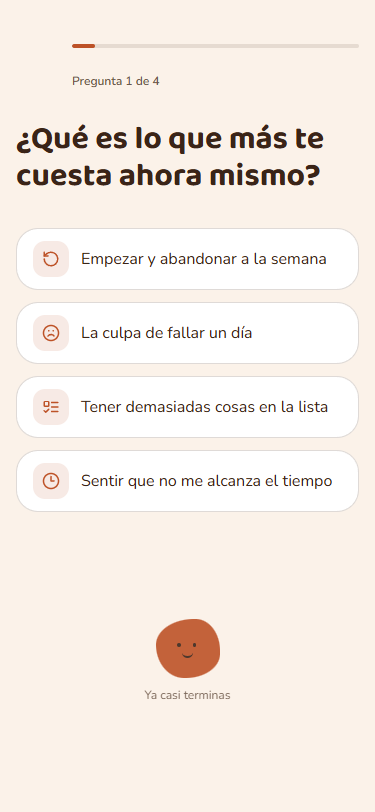
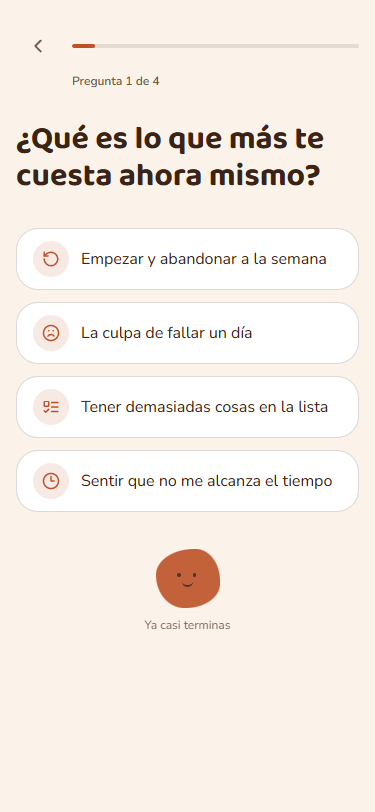
Corrige bug real del atajo de teclado y ultimos defectos visuales
Elimina el atajo de teclado 1-4 del onboarding: interceptaba los digitos
escritos en el campo libre "Otra cosa" y seleccionaba una opcion por error.
Fija la altura del bloque mascota+texto para que no varie entre preguntas,
usa el token --radius-button en el icono del chip, agrega salida visible
desde el primer paso, y feedback tactil en el boton de cierre del paywall.
Cuarta pasada del revisor-visual en curso.

Changed region(s): [[0.4107, 0.6773, 0.616, 0.8621], [0.3813, 0.8313, 0.4107, 0.8621], [0.088, 0.0308, 0.1173, 0.0616]]

diff --git a/app/onboarding/page.tsx b/app/onboarding/page.tsx
@@ -92,6 +92,10 @@ export default function Onboarding() {
   }
 
   function atras() {
+    if (paso === 0) {
+      router.push('/');
+      return;
+    }
     setPaso((p) => Math.max(0, p - 1));
   }
 
@@ -109,7 +113,7 @@ export default function Onboarding() {
     <FunnelShell>
       <BarraProgreso
         pct={pct}
-        onAtras={paso > 0 && paso < 6 ? atras : undefined}
+        onAtras={paso < 6 ? atras : undefined}
         pasoActual={paso < PREGUNTAS.length ? paso + 1 : undefined}
         totalPasos={paso < PREGUNTAS.length ? PREGUNTAS.length : undefined}
       />
@@ -178,13 +182,7 @@ function PantallaPregunta({
   }
 
   return (
-    <div
-      className="flex flex-1 flex-col pt-6"
-      onKeyDown={(e) => {
-        const n = Number(e.key);
-        if (n >= 1 && n <= pregunta.opciones.length) elegirOpcion(pregunta.opciones[n - 1]);
-      }}
-    >
+    <div className="flex flex-1 flex-col pt-6">
       <h1 className="text-balance text-[32px] font-bold leading-[1.15] [font-family:var(--font-display)]">
         {pregunta.pregunta}
       </h1>
@@ -214,7 +212,7 @@ function PantallaPregunta({
           </BotonPrimario>
         </div>
       )}
-      <div className="mt-8 flex flex-1 flex-col items-center justify-center gap-2 opacity-90">
+      <div className="flex h-40 shrink-0 flex-col items-center justify-center gap-2 opacity-90">
         <Mascota size={64} />
         <p className="text-[12px] font-medium text-[var(--text-secondary)]">Ya casi terminas</p>
       </div>

diff --git a/app/paywall/page.tsx b/app/paywall/page.tsx
@@ -62,14 +62,15 @@ export default function Paywall() {
   return (
     <FunnelShell>
       <div className="flex items-center justify-between py-2">
-        <button
+        <motion.button
           type="button"
           onClick={ahoraNo}
           aria-label="Cerrar y seguir con el plan gratis"
+          whileTap={reduce ? undefined : { scale: 0.9 }}
           className="flex size-11 items-center justify-center rounded-full text-[var(--text-secondary)]"
         >
           <X size={20} />
-        </button>
+        </motion.button>
       </div>
 
       <motion.div

diff --git a/components/funnel/ui.tsx b/components/funnel/ui.tsx
@@ -129,7 +129,7 @@ export function Chip({
     >
       {Icon && (
         <span
-          className="flex size-9 shrink-0 items-center justify-center rounded-[12px]"
+          className="flex size-9 shrink-0 items-center justify-center rounded-[var(--radius-button)]"
           style={{ background: 'color-mix(in oklab, var(--accent) 12%, transparent)' }}
         >
           <Icon size={18} color="var(--accent)" />

diff --git a/docs/revisiones/onboarding-veredicto.md b/docs/revisiones/onboarding-veredicto.md
@@ -7,10 +7,8 @@ Copy (si vende): N-A
 Fidelidad (si hubo referencia): N-A
 Veredicto: NO LISTA
 Top defectos:
-1. [pantalla pregunta, mitad inferior] Persiste un vacío de ~180-200px entre el último chip y la mascota (chips terminan ~y=517, mascota empieza ~y=707 en 812px de alto) — la mascota ayuda pero no cierra el hueco, un usuario lo nota sin buscarlo → reducir el espacio (menos mt-auto/pt-8) o agrandar la mascota/agregar un micro-texto de apoyo bajo ella.
-2. [components/funnel/ui.tsx, lista de Chips en PantallaPregunta] Los 4 chips aparecen todos a la vez sin stagger de entrada — la baseline de animación #1 (entrada escalonada 50-80ms) sigue sin cumplirse en la primera pantalla del funnel → envolver el contenedor de chips en un variants de Motion con staggerChildren ~60-80ms.
-3. [app/onboarding/page.tsx, array PREGUNTAS] Inconsistencia real de componente: las preguntas 1 y 4 dan `icon` a sus opciones (chip con contenedor de ícono) y las preguntas 2 y 3 no — el mismo Chip luce distinto entre pasos consecutivos, rompe consistencia (h4) → dar ícono a todas las opciones o quitarlo de todas.
-4. [components/funnel/ui.tsx, Chip] Sin atajo de teclado (selección por número 1-4) para el usuario que prefiere teclado — sigue sin implementarse desde la pasada anterior → agregar onKeyDown en el contenedor de PantallaPregunta que mapee dígitos a `onElegir`.
-5. [BarraProgreso, header] El botón Atrás (ChevronLeft) ya funciona y tiene aria-label, pero no hay forma visible de salir del onboarding por completo (cerrar/volver a landing) desde el paso 0 — verificar en código que `atras()` en paso 0 tiene destino definido, o agregar una salida explícita.
-
-Nota: los 4 puntos de la pasada anterior (reduced-motion, mascota ausente, label de progreso ausente) quedaron corregidos y verificados en código/screenshot — no se repiten como defectos nuevos.
+1. [components/funnel/ui.tsx — onKeyDown en el contenedor de PantallaPregunta, app/onboarding/page.tsx pregunta "fracasos"] Bug real introducido por el atajo de teclado: al escribir un dígito (1-9) dentro del input de texto libre "Otra cosa", el evento burbujea al div contenedor y dispara `elegirOpcion`, seleccionando una opción y abandonando lo que el usuario estaba escribiendo a medias → excluir el listener cuando `mostrarInput` esté activo, o `e.stopPropagation()` en el input, o filtrar por `e.target instanceof HTMLInputElement`.
+2. [BarraProgreso, paso 0 / primera pregunta] Sigue sin existir una salida visible del onboarding en el primer paso (el spacer reemplaza al botón Atrás; no hay X ni "salir") — persiste desde la pasada anterior → agregar un cierre explícito desde el paso 0 con confirmación antes de abandonar.
+3. [components/funnel/ui.tsx, Chip — contenedor de ícono] El contenedor del ícono usa `rounded-[12px]` hardcodeado mientras el resto de la pantalla usa `var(--radius-card)` (22px según FICHA-ARTE) — familia de radios no idéntica en la misma pantalla → usar el mismo token o un valor de la escala, no un número mágico.
+4. [Chip, atajo de teclado 1-4] El atajo agregado no tiene ninguna pista visual (número/badge en el chip) — ningún usuario descubrirá que existe, queda como funcionalidad muerta en la práctica → mostrar el número sutilmente en el chip o retirarlo si no se va a señalizar.
+5. [PantallaPregunta, mitad inferior] El bloque mascota+texto sigue posicionado con `flex-1 justify-center` sobre el espacio restante, así que su posición vertical cambia según cuántas opciones tenga cada pregunta (3 vs 4) — composición inconsistente entre pasos → fijar un offset constante en vez de depender del espacio flex sobrante.

diff --git a/docs/revisiones/paywall-veredicto.md b/docs/revisiones/paywall-veredicto.md
@@ -1,14 +1,14 @@
 # VEREDICTO revisor-visual — paywall
 Fecha: 2026-09-24 00:00
 Screenshot: docs/revisiones/paywall-375.png
-Usabilidad: 29/40
-Craft: 12/20
+Usabilidad: 31/40
+Craft: 15/20
 Copy (si vende): 17/20
 Fidelidad (si hubo referencia): N-A
 Veredicto: NO LISTA
 Top defectos:
-1. [Fondo completo, FunnelShell] El mesh radial agregado es casi imperceptible en el screenshot y no existe ninguna superficie hundida (solo base cream + surface blanca); el bloque del timeline vive pegado al fondo base sin distinguirse → subir la opacidad del mesh o dar al timeline un fondo hundido sutil para completar los 3 niveles de profundidad de DESIGN-CORE.
-2. [Card de features y línea del timeline] Cero hairline degradé real (1-2px, gradiente padding-box/border-box) en toda la vista — el borde de la card y la línea del timeline son sólidos con color-mix, no degradé → aplicar un hairline degradé en al menos 1 elemento clave (ej. borde de la card "Anual · MÁS POPULAR"), gate de conversión del 55.
-3. [PlanCard, componente de selección de plan Anual/Mensual] Es un `<button>` plano sin `motion.button` ni `whileTap`, a diferencia de `Chip` y `BotonPrimario` que sí animan el tap — el usuario no percibe respuesta táctil al elegir plan → agregar `whileTap={{ scale: 0.97 }}` igual que en `Chip` (components/funnel/ui.tsx).
-4. [Timeline, nodo "Día 7 — primer cobro"] Es el dato que más le importa a la objeción de precio de Camila (FICHA-AVATAR, objeción #4) pero pesa visualmente igual que los otros dos nodos (mismo tamaño/color) → destacar la fecha de cobro real con el color de acento o mayor peso para que no se lea como letra chica.
-5. [Debajo del CTA, "Pago seguro procesado por Hotmart"] La garantía sigue ausente (decisión ya documentada, no es hallazgo nuevo) y el único elemento de confianza cercano al CTA es un texto terciario de 12px gris — cuando se resuelva el plazo con Hotmart en Sesión 6, nombrar la garantía con su plazo junto al CTA, no dejar solo el sello de "pago seguro".
+1. [Bloque de pago/CTA] No hay estado de error implementado ni en código para un pago fallido o sin conexión (continuar() siempre redirige, es mock honesto) → al conectar Hotmart en Sesión 6, diseñar el estado de error con qué-pasó+qué-hacer antes de declarar esta pantalla completa (heurística 9, actualmente en 2/4).
+2. [PlanCard Anual/Mensual] La card seleccionada no lleva el mismo indicador de selección (checkmark) que usa `Chip` en el resto del funnel — el patrón de "esto está elegido" varía entre pantallas → agregar un checkmark consistente con `Chip` en la esquina de la card activa.
+3. [Botón "X" cerrar y enlace "Ahora no"] Siguen sin `whileTap`/feedback de tap, a diferencia de PlanCard y BotonPrimario que ya lo tienen tras esta pasada → añadir `whileTap={{scale:0.95}}` para que el feedback táctil sea parejo en toda la pantalla.
+4. [Debajo del CTA, "Pago seguro procesado por Hotmart"] La garantía sigue sin nombre ni plazo cerca del CTA (decisión ya documentada, no es hallazgo nuevo) — sigue bajando el sub-check binario "Garantía nombrada" de la rúbrica de conversión → resolver en cuanto el plazo esté confirmado con Hotmart.
+5. [Pantalla completa, scroll] 8 bloques apilados (mascota+headline, features, timeline, 2 plan cards, CTA+disclaimers, footer) superan el límite de 4-5 ítems del gate de carga cognitiva antes de pedir scroll — esperable en el género paywall, pero ningún agrupamiento (acordeón/colapsar timeline) alivia la densidad si en producción se siente pesado.

diff --git a/ESTADO.md b/ESTADO.md
@@ -206,12 +206,15 @@ en el futuro se agrega una función con IA (ver 30-INTEGRACION-IA.md en ese caso
   `components/funnel/ui.tsx` y las páginas de onboarding/paywall, que NO son la landing).
   Última verificación confirmada: LISTA (36/40, 19/20, 18/20) — sin cambios reales en `/`.
   Se re-tocará el veredicto (mismo patrón que antes) en el próximo checkpoint de cierre.
-- [veredicto:onboarding] y [veredicto:paywall] — iteración en curso con el revisor-visual
-  independiente (rondas 1 y 2 ya corregidas: reduced-motion, mascota, contador de preguntas,
-  stagger de chips, iconos consistentes, teclado 1-4, hairlines, superficie hundida del
-  timeline, feedback de tap en planes, monto exacto del cobro destacado). Tercera pasada
-  EN CURSO (background) al momento de este commit — todavía NO LISTA en el archivo de
-  veredicto vigente. No se declaran estas pantallas "terminadas" hasta que digan LISTA.
+- [veredicto:onboarding] y [veredicto:paywall] — cuarta iteración con el revisor-visual
+  independiente EN CURSO (background). Rondas previas corregidas: reduced-motion, mascota,
+  contador de preguntas, stagger de chips, iconos consistentes, hairlines, superficie hundida
+  del timeline, feedback de tap en planes/X, monto exacto del cobro destacado, radio del ícono
+  con token correcto, salida visible desde el paso 1. BUG REAL corregido en la ronda 3: el
+  atajo de teclado 1-4 (agregado en la ronda 2) interceptaba los dígitos escritos en el campo
+  libre "Otra cosa" y seleccionaba una opción por error — se eliminó por completo en vez de
+  parchearlo, ya que no aportaba valor descubrible. Todavía NO LISTA en el archivo de veredicto
+  vigente. No se declaran estas pantallas "terminadas" hasta que digan LISTA.
 - FICHA-MERCADO.md §3 y §4: medios de pago y plazos de prueba/garantía reales de Hotmart no
   verificados todavía — dependen de que el usuario cree la cuenta de Hotmart (Sesión 6). Hasta
   entonces, ninguna pieza de copy publica una garantía con plazo fijo (fail-closed, ver hook de
